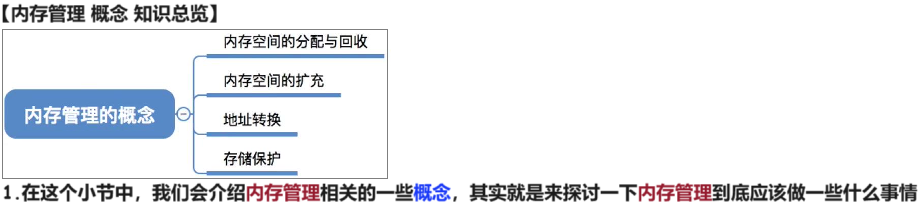
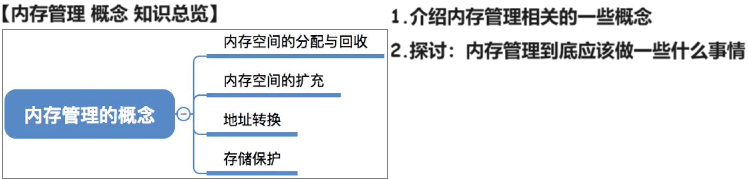
240620

Changed region(s): [[0.0, 0.0, 1.0, 1.0], [0.5227, 0.0279, 0.8917, 0.1676]]

diff --git a/01 初试/01 OS/02 24 25 王道/01 基础/03 内存管理/01 内存管理 概念/02 内存管理 概念 240620/02 消化/02 Doc.md b/01 初试/01 OS/02 24 25 王道/01 基础/03 内存管理/01 内存管理 概念/02 内存管理 概念 240620/02 消化/02 Doc.md
@@ -4,7 +4,7 @@
 
 # 01 内存管理 概念 知识总览
 
-<img src="https://cvp.oss-cn-shanghai.aliyuncs.com/picgo/202405130849190.png" alt="image-20240513084944085" style="zoom:50%;" />
+<img src="https://cvp.oss-cn-shanghai.aliyuncs.com/picgo/202406201622236.png" alt="image-20240620162243078" style="zoom:50%;" />
 
 
 
